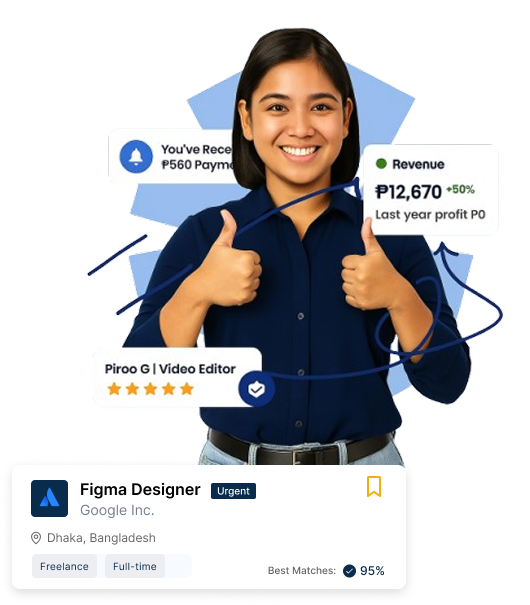
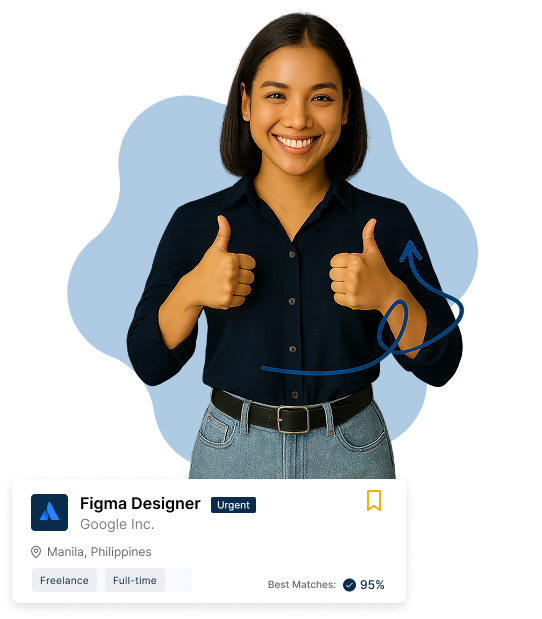
updated steps-guide image

diff --git a/app/views/components/steps-guide.php b/app/views/components/steps-guide.php
@@ -1,0 +1,164 @@
+<section class="relative flex flex-col items-center justify-between w-full min-h-screen gap-16 py-20 mx-auto bg-gradient-to-br from-gray-50 via-blue-50/30 to-white md:flex-row max-w-7xl">
+    <!-- Left Content Section -->
+    <div class="flex flex-col items-start justify-center w-full md:w-1/2">
+        <h2 class="mb-4 text-4xl font-bold leading-tight text-grayMain sm:text-4xl lg:text-4xl">
+            Discover How to Apply for
+            <span class="block mt-2 text-grayMain">
+                Your Next Job
+            </span>
+        </h2>
+
+        <p class="mb-12 text-sm leading-relaxed text-gray-600">
+            Follow these simple steps to explore verified opportunities powered by <br> PESO Rosario and start your career journey today.
+        </p>
+
+        <!-- Steps with improved design -->
+        <div class="w-full space-y-6">
+            <!-- Step 1: Create Account -->
+            <div class="relative flex items-center gap-4 px-6 py-4 transition-all duration-300 bg-gray-100 rounded-lg group hover:bg-gray-50">
+                <!-- Connecting line -->
+                <div class="absolute top-20 left-8 w-0.5 h-12 bg-primary opacity-30"></div>
+
+                <!-- Circle container -->
+                <div class="relative flex items-center justify-center flex-shrink-0 w-12 h-12">
+                    <!-- Primary background circle -->
+                    <div class="flex items-center justify-center w-12 h-12 border-2 border-white rounded-full shadow-lg bg-primary">
+                        <!-- Number with white text -->
+                        <span class="text-lg font-bold text-white">1</span>
+                    </div>
+                </div>
+
+                <div class="flex-1">
+                    <h3 class="mb-2 text-xl font-bold text-grayMain">Create Account</h3>
+                    <p class="text-sm leading-relaxed text-gray-600">
+                        Set up your account as the first step toward your career journey and open the door to endless opportunities.
+                    </p>
+                </div>
+            </div>
+
+            <!-- Step 2: Browse Job Offers -->
+            <div class="relative flex items-center gap-4 px-6 py-4 transition-all duration-300 bg-gray-100 rounded-lg group hover:bg-gray-50">
+                <!-- Connecting line -->
+                <div class="absolute top-20 left-8 w-0.5 h-12 bg-primary opacity-30"></div>
+
+                <!-- Circle container -->
+                <div class="relative flex items-center justify-center flex-shrink-0 w-12 h-12">
+                    <!-- Primary background circle with hover effect -->
+                    <div class="flex items-center justify-center w-12 h-12 transition-all duration-300 border-2 border-white rounded-full shadow-lg bg-secondary group-hover:bg-blue-700">
+                        <!-- Number with white text -->
+                        <span class="text-lg font-bold text-white">2</span>
+                    </div>
+                </div>
+
+                <div class="flex-1">
+                    <h3 class="mb-2 text-xl font-bold text-grayMain">Browse Job Offers</h3>
+                    <p class="text-sm leading-relaxed text-gray-600">
+                        Explore thousands of job opportunities, discover different roles, and find positions that perfectly match your skills and aspirations.
+                    </p>
+                </div>
+            </div>
+
+            <!-- Step 3: Apply Job -->
+            <div class="relative flex items-center gap-4 px-6 py-4 transition-all duration-300 bg-gray-100 rounded-lg group hover:bg-gray-50">
+                <!-- Circle container -->
+                <div class="relative flex items-center justify-center flex-shrink-0 w-12 h-12 ">
+                    <!-- Primary background circle with hover effect -->
+                    <div class="flex items-center justify-center w-12 h-12 transition-all duration-300 border-2 border-white rounded-full shadow-lg bg-primary group-hover:bg-blue-700">
+                        <!-- Number with white text -->
+                        <span class="text-lg font-bold text-white">3</span>
+                    </div>
+                </div>
+
+                <div class="flex-1">
+                    <h3 class="mb-2 text-xl font-bold text-grayMain">Apply for Jobs</h3>
+                    <p class="text-sm leading-relaxed text-gray-600">
+                        Submit your application with confidence and take the decisive step toward securing your dream career opportunity.
+                    </p>
+                </div>
+            </div>
+        </div>
+
+        <!-- Enhanced CTA Button -->
+        <div class="mt-16">
+            <a href="?page=register" class="relative inline-flex items-center px-10 py-5 overflow-hidden text-lg font-bold text-white transition-all duration-300 transform shadow-xl group bg-gradient-to-r from-blue-600 via-blue-700 to-blue-800 rounded-2xl hover:from-blue-700 hover:via-blue-800 hover:to-blue-900 hover:shadow-2xl hover:-translate-y-1 hover:scale-105">
+                <span class="relative z-10 mr-3">Get Started Today</span>
+                <svg class="relative z-10 w-6 h-6 transition-transform duration-300 group-hover:translate-x-1" fill="none" stroke="currentColor" viewBox="0 0 24 24">
+                    <path stroke-linecap="round" stroke-linejoin="round" stroke-width="2" d="M17 8l4 4m0 0l-4 4m4-4H3"></path>
+                </svg>
+                <div class="absolute inset-0 transition-opacity duration-300 opacity-0 rounded-2xl bg-gradient-to-r from-blue-400 to-blue-600 group-hover:opacity-20"></div>
+            </a>
+        </div>
+    </div>
+
+    <!-- Right Image Section with Enhanced Design -->
+    <div class="relative flex items-center justify-center w-full md:w-1/2">
+        <!-- Background Decorative Elements -->
+        <div class="absolute inset-0 opacity-10">
+            <div class="absolute w-32 h-32 bg-blue-300 rounded-full top-10 right-10 blur-2xl"></div>
+            <div class="absolute w-24 h-24 bg-yellow-300 rounded-full bottom-20 left-10 blur-xl"></div>
+            <div class="absolute w-16 h-16 bg-green-300 rounded-full top-1/2 right-1/4 blur-lg"></div>
+        </div>
+
+        <!-- Main Image Container -->
+        <div class="relative z-10 py-8">
+            <!-- Image with enhanced styling -->
+            <div class="relative p-2 overflow-hidden shadow-2xl rounded-3xl bg-gradient-to-br from-white to-gray-50">
+                <img src="./assets/images/job-guide-img.png"
+                    alt="Professional job seeker success story"
+                    class="object-cover w-full h-auto max-w-lg transition-transform duration-500 rounded-2xl hover:scale-105"
+                    data-aos="fade-left"
+                    data-aos-delay="200">
+
+                <!-- Overlay gradient for better text readability -->
+                <div class="absolute pointer-events-none inset-2 rounded-2xl bg-gradient-to-t from-black/10 via-transparent to-transparent"></div>
+
+                <!-- Floating Success Indicator - Top Right (overlaying the image) -->
+                <div class="absolute z-20 p-3 bg-white border border-gray-100 shadow-xl -top-4 -right-4 rounded-2xl" data-aos="zoom-in" data-aos-delay="400">
+                    <div class="flex items-center gap-3">
+                        <div class="w-3 h-3 bg-green-500 rounded-full animate-pulse"></div>
+                        <span class="text-sm font-semibold text-gray-700">Success Rate: 95%</span>
+                    </div>
+                </div>
+
+                <!-- Floating Jobs Counter - Bottom Left (overlaying the image)
+                <div class="absolute z-20 p-3 bg-white border border-gray-100 shadow-xl -bottom-4 -left-4 rounded-2xl" data-aos="zoom-in" data-aos-delay="600">
+                    <div class="text-center">
+                        <div class="text-xl font-bold text-blue-600">1,000+</div>
+                        <div class="text-xs text-gray-600">Jobs Filled</div>
+                    </div>
+                </div> -->
+
+    
+            </div>
+        </div>
+
+</section>
+
+<!-- AOS Animation Library CSS -->
+<link href="https://unpkg.com/aos@2.3.1/dist/aos.css" rel="stylesheet">
+
+<!-- AOS Animation Library JS -->
+<script src="https://unpkg.com/aos@2.3.1/dist/aos.js"></script>
+<script>
+    // Initialize AOS when DOM is ready
+    document.addEventListener('DOMContentLoaded', function() {
+        AOS.init({
+            duration: 1000,
+            easing: 'ease-out-cubic',
+            once: true,
+            offset: 50,
+            delay: 100,
+            disable: false, // Enable on all devices
+            startEvent: 'DOMContentLoaded',
+            useClassNames: false,
+            disableMutationObserver: false,
+            debounceDelay: 50,
+            throttleDelay: 99,
+        });
+    });
+
+    // Refresh AOS on window resize
+    window.addEventListener('resize', function() {
+        AOS.refresh();
+    });
+</script>

diff --git a/app/views/pages/landing-page.php b/app/views/pages/landing-page.php
@@ -2,7 +2,7 @@
 include_once __DIR__ . '/../components/navbar-top.php';
 include_once __DIR__ . '/../components/navbar.php';
 include_once __DIR__ . '/../components/hero-page.php';
-include_once __DIR__ . '/../components/abt-peso-rosario.php';
+include_once __DIR__ . '/../components/steps-guide.php';
 include_once __DIR__ . '/../components/popular-jobs.php';
 include_once __DIR__ . '/../components/top-companies.php';
 include_once __DIR__ . '/../components/companies.php';
